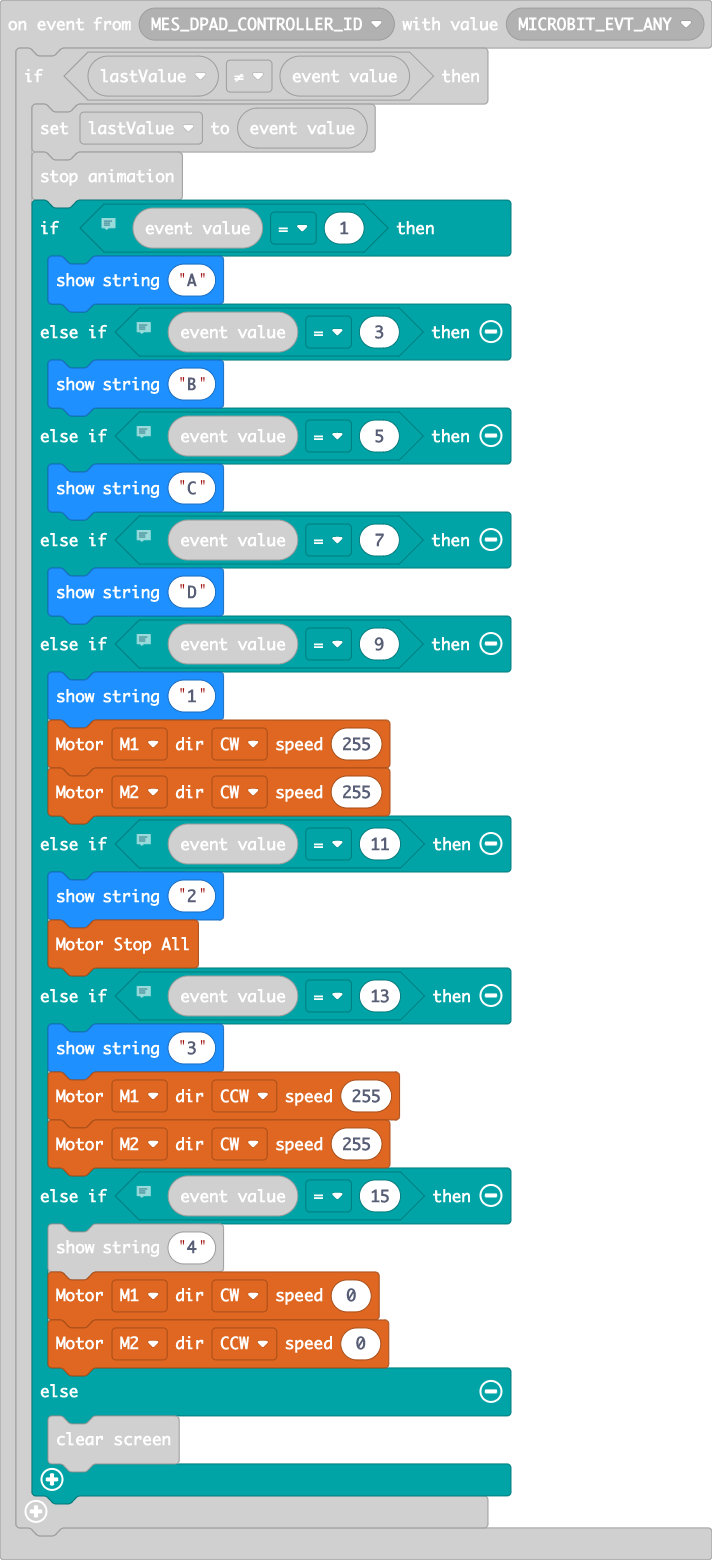
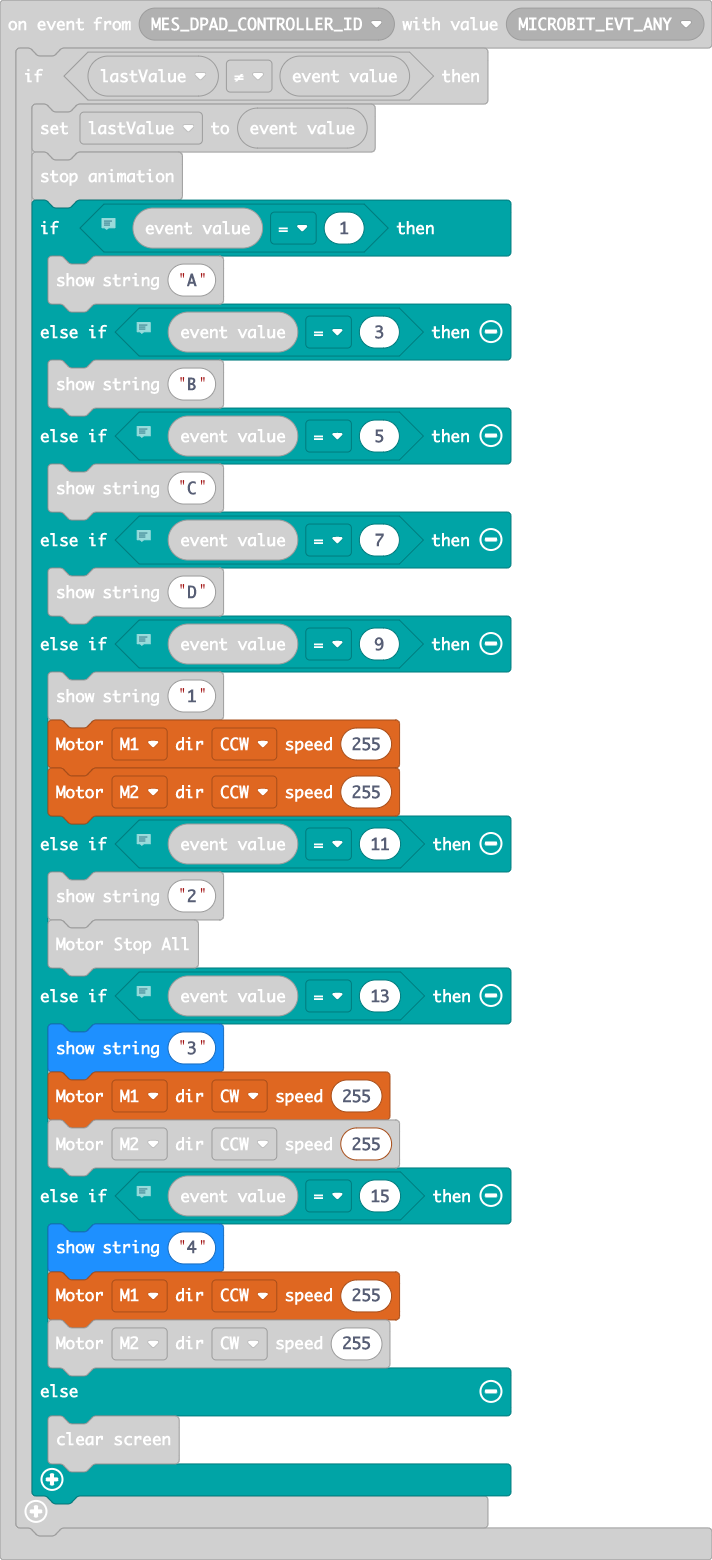
Update main.blocks, main.ts

diff --git a/main.ts b/main.ts
@@ -20,19 +20,19 @@ control.onEvent(EventBusSource.MES_DPAD_CONTROLLER_ID, EventBusValue.MICROBIT_EV
             basic.showString("D")
         } else if (control.eventValue() == 9) {
             basic.showString("1")
-            motor.MotorRun(motor.Motors.M1, motor.Dir.CW, 255)
-            motor.MotorRun(motor.Motors.M2, motor.Dir.CW, 255)
+            motor.MotorRun(motor.Motors.M1, motor.Dir.CCW, 255)
+            motor.MotorRun(motor.Motors.M2, motor.Dir.CCW, 255)
         } else if (control.eventValue() == 11) {
             basic.showString("2")
             motor.motorStopAll()
         } else if (control.eventValue() == 13) {
             basic.showString("3")
-            motor.MotorRun(motor.Motors.M1, motor.Dir.CCW, 255)
-            motor.MotorRun(motor.Motors.M2, motor.Dir.CW, 255)
+            motor.MotorRun(motor.Motors.M1, motor.Dir.CW, 255)
+            motor.MotorRun(motor.Motors.M2, motor.Dir.CCW, 255)
         } else if (control.eventValue() == 15) {
             basic.showString("4")
-            motor.MotorRun(motor.Motors.M1, motor.Dir.CW, 0)
-            motor.MotorRun(motor.Motors.M2, motor.Dir.CCW, 0)
+            motor.MotorRun(motor.Motors.M1, motor.Dir.CCW, 255)
+            motor.MotorRun(motor.Motors.M2, motor.Dir.CW, 255)
         } else {
             basic.clearScreen()
         }
